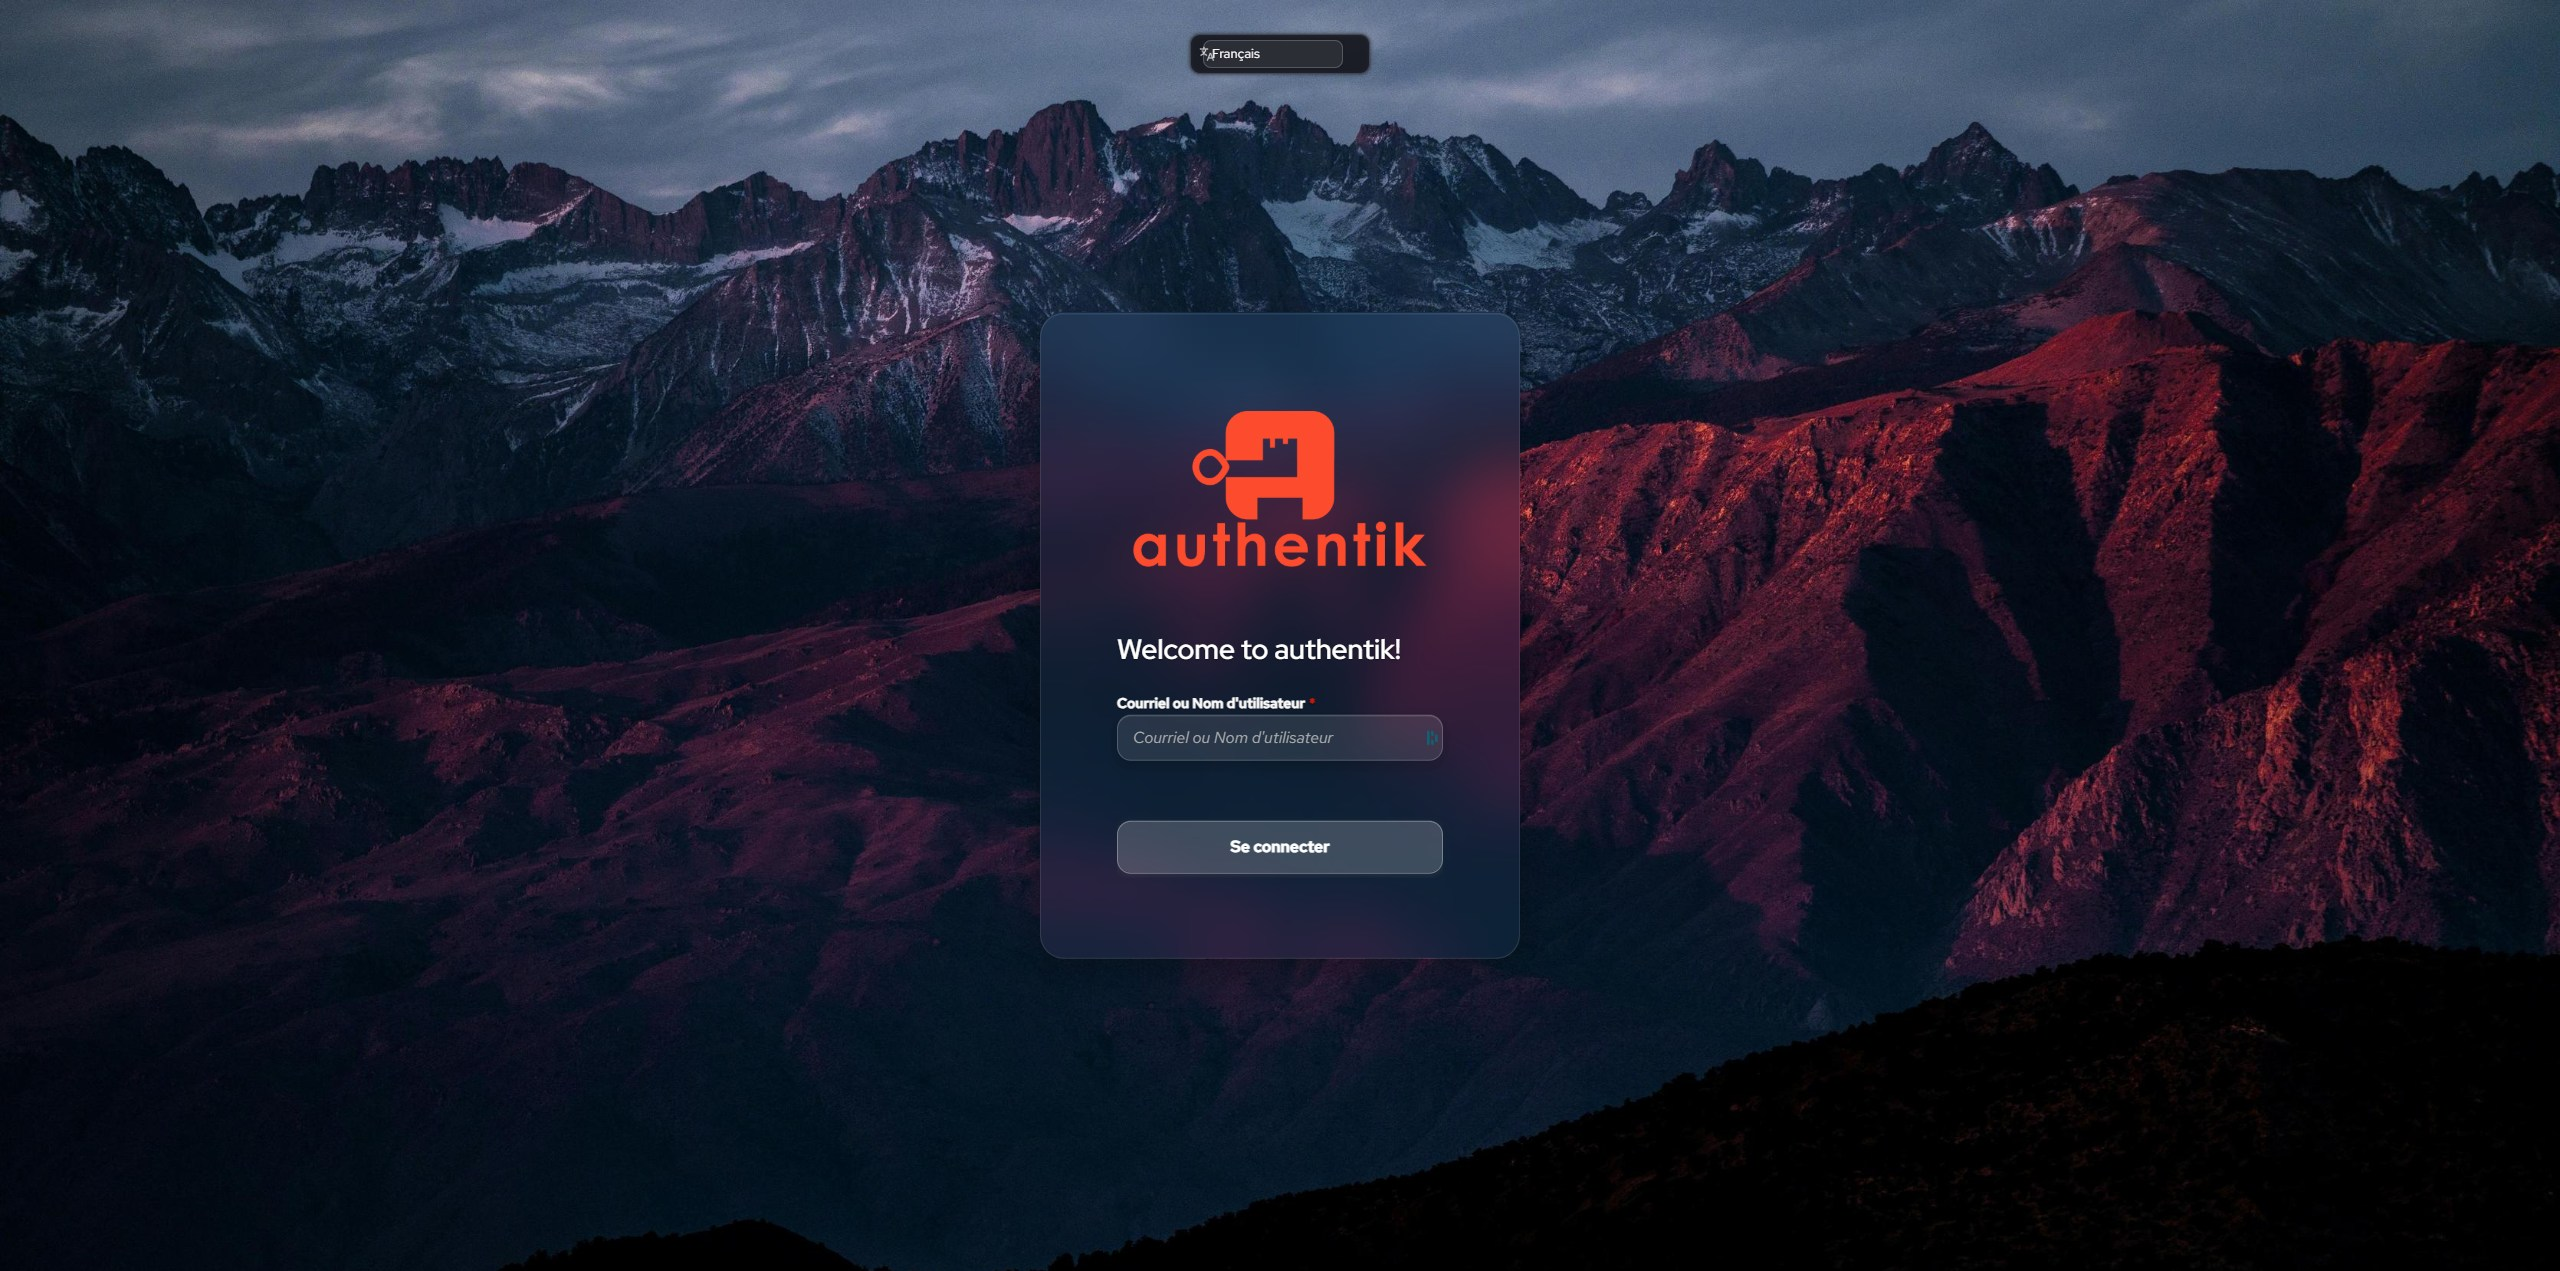
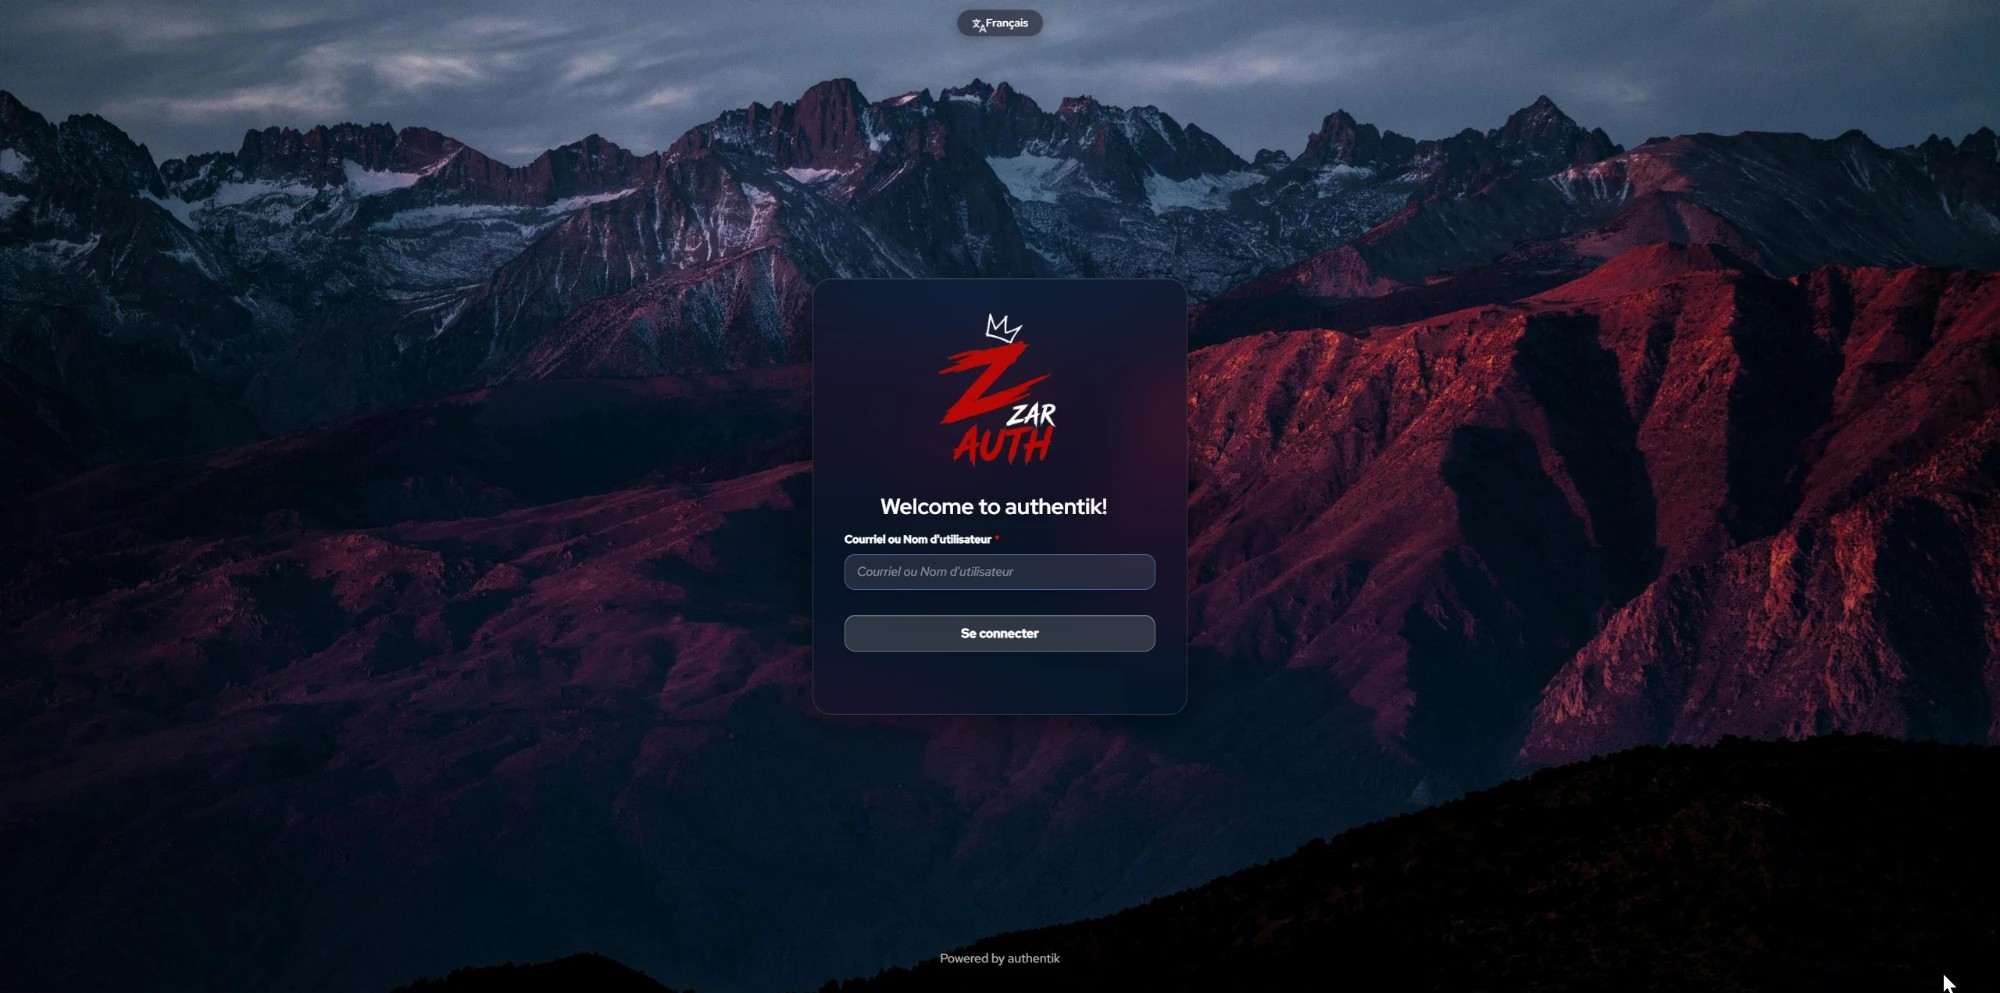
fix: V4.0.1 — fixes after testing on Authentik 2026.8.4
- Hide "Powered by authentik" again: Authentik escapes < > & in the
  document copy of the Custom CSS, so the ">" combinator never matched
  the light-DOM ak-brand-links. All ">" combinators removed.
- "Not you?" link white on nested MFA stages (WebAuthn, code, Duo).
- No horizontal scroll on the dashboard on phones (compact admin pill).
- README: new desktop screenshots, tested-on 2026.8.4, contributor note.

diff --git a/theme.css b/theme.css
@@ -1,8 +1,8 @@
-/* ===== AUTHENTIK GLASSMORPHISM THEME - V4.0 (Authentik 2026.8.x) ===== */
+/* ===== AUTHENTIK GLASSMORPHISM THEME - V4.0.1 (Authentik 2026.8.x) ===== */
 
 /*
    Glassmorphism theme for Authentik.
-   Tested against the Authentik 2026.8.4 frontend sources.
+   Tested on Authentik 2026.8.4.
    Install: Admin -> System -> Brands -> (your brand) -> Custom CSS.
 
    HOW AUTHENTIK APPLIES THIS FILE (2026.x)
@@ -16,6 +16,10 @@
    This V4 relies on that and NEVER fights Authentik's native CSS grid any more:
    it only re-tunes its CSS variables and paints the glass on top. This is what
    makes the layout behave on desktop, tablet and mobile.
+
+   CAUTION: in the DOCUMENT copy Authentik escapes the characters < > and &,
+   so never use the child combinator in rules that target light-DOM elements
+   (ak-brand-links, body, html, ::part()): they silently stop matching.
 
    Login page DOM (2026.8):
      body > ak-drawer > ak-flow-executor #shadow
@@ -427,7 +431,8 @@ ak-interface-user {
 
 /* Footer links: simple centred, wrapping row (the native 4-column grid
    squeezes a single link onto several lines on phones) */
-:host(ak-brand-links) [part="list"] {
+ak-brand-links [part="list"],
+[name="flow-links"] .pf-c-list {
     display: flex !important;
     flex-wrap: wrap !important;
     justify-content: center !important;
@@ -435,21 +440,25 @@ ak-interface-user {
     max-width: 100% !important;
 }
 
-:host(ak-brand-links) [part="list-item"] {
+ak-brand-links [part="list-item"],
+[name="flow-links"] .pf-c-list li {
     flex: 0 1 auto !important;
     max-width: 100% !important;
 }
 
 /* Hide ONLY "Powered by authentik" (always the last, text-only item).
-   Your own footer links (Brand settings) stay visible. */
-:host(ak-brand-links) [part="list-item"][data-kind="text"][data-track-name="end"],
-[name="flow-links"] .pf-c-list > li:last-child:not(:has(a)) {
+   Your own footer links (Brand settings) stay visible.
+   NB: <ak-brand-links> renders in the light DOM, so this rule is matched by
+   the DOCUMENT copy of the Custom CSS. Authentik escapes < > & in that copy:
+   never use the ">" combinator in document-level rules. */
+ak-brand-links [part="list-item"][data-kind="text"]:last-child,
+[name="flow-links"] li:last-child:not(:has(a)) {
     display: none !important;
 }
 
 /* --- Language picker: glass pill, centred on top, every viewport --- */
-.pf-c-login > [part="locale-select"],
-.pf-c-login > ak-locale-select {
+.pf-c-login [part="locale-select"],
+.pf-c-login ak-locale-select {
     --ak-c-locale-select--Opacity: 1 !important;
     --ak-c-flow-executor__locale-select--Color: var(--glass-text) !important;
     --ak-c-locale-select--label--Color: var(--glass-text) !important;
@@ -566,7 +575,7 @@ ak-interface-user {
         justify-content: center !important;
     }
 
-    .pf-c-login[data-layout^="sidebar"] > [part="locale-select"] {
+    .pf-c-login[data-layout^="sidebar"] [part="locale-select"] {
         grid-area: header !important;
     }
 }
@@ -657,7 +666,11 @@ ak-flow-card .pf-m-error,
 }
 
 ak-flow-card a:not(.pf-c-button),
-:host(ak-form-static) a {
+:host(ak-form-static) a,
+[slot="link"] a,
+:host(ak-stage-authenticator-validate-webauthn) a:not(.pf-c-button),
+:host(ak-stage-authenticator-validate-code) a:not(.pf-c-button),
+:host(ak-stage-authenticator-validate-duo) a:not(.pf-c-button) {
     color: var(--glass-text) !important;
     text-decoration: none !important;
     opacity: 0.85;
@@ -665,7 +678,8 @@ ak-flow-card a:not(.pf-c-button),
 }
 
 ak-flow-card a:not(.pf-c-button):hover,
-:host(ak-form-static) a:hover {
+:host(ak-form-static) a:hover,
+[slot="link"] a:hover {
     opacity: 1;
     text-decoration: underline !important;
     text-shadow: 0 0 8px rgba(255, 255, 255, 0.5) !important;
@@ -1621,11 +1635,11 @@ ak-library-impl::part(card-header-actions-button):hover {
     box-shadow: none !important;
 }
 
-:host(ak-user-session-list) .pf-c-table tbody > tr > *,
-:host(ak-user-settings-mfa) .pf-c-table tbody > tr > *,
-:host(ak-user-consent-list) .pf-c-table tbody > tr > *,
-:host(ak-user-reputation-list) .pf-c-table tbody > tr > *,
-:host(ak-user-token-list) .pf-c-table tbody > tr > * {
+:host(ak-user-session-list) .pf-c-table tbody td,
+:host(ak-user-settings-mfa) .pf-c-table tbody td,
+:host(ak-user-consent-list) .pf-c-table tbody td,
+:host(ak-user-reputation-list) .pf-c-table tbody td,
+:host(ak-user-token-list) .pf-c-table tbody td {
     border-bottom-color: rgba(255, 255, 255, 0.1) !important;
 }
 
@@ -1787,6 +1801,23 @@ ak-interface-admin::part(brand) {
 
     :host(ak-user-settings) .pf-c-card {
         margin: 8px 0 !important;
+    }
+
+    /* Compact "Admin interface" pill: the wide desktop pill pushed the user
+       menu off-screen on phones (horizontal scroll). */
+    :host(ak-interface-user) a[href*="/if/admin/"] {
+        padding: 6px 12px !important;
+        font-size: 12px !important;
+        line-height: 1.2 !important;
+        white-space: nowrap !important;
+    }
+}
+
+@media (max-width: 400px) {
+    :host(ak-interface-user) a[href*="/if/admin/"] {
+        max-width: 110px !important;
+        overflow: hidden !important;
+        text-overflow: ellipsis !important;
     }
 }
 

diff --git a/README.md b/README.md
@@ -2,13 +2,13 @@
 
 A custom **glassmorphism** login theme for [Authentik](https://goauthentik.io/).
 
-> ✅ **V4.0** — Rebuilt for **Authentik 2026.8.x** (validated against the 2026.8.4 frontend sources), desktop + tablet + mobile
+> ✅ **V4.0.1** — Rebuilt for **Authentik 2026.8.x**, tested on **Authentik 2026.8.4** — desktop, tablet and mobile
 >
 > Forked from the original [VULGA01/Authentik-Login-theme-Glassmorphism](https://github.com/VULGA01/Authentik-Login-theme-Glassmorphism) (tested on 2025.10.3) and updated for the new Shadow DOM architecture introduced in Authentik 2026.x.
 
 [![License: MIT](https://img.shields.io/badge/License-MIT-blue.svg)](LICENSE)
 ![Authentik version](https://img.shields.io/badge/Authentik-2026.8.4-orange)
-![Version](https://img.shields.io/badge/version-V4.0-blue)
+![Version](https://img.shields.io/badge/version-V4.0.1-blue)
 
 ## 📸 Previews
 
@@ -27,6 +27,8 @@ A custom **glassmorphism** login theme for [Authentik](https://goauthentik.io/).
 ![Dashboard Desktop](./screenshots/dashboard-desktop.jpg)
 
 ### 📱 Mobile
+
+> Mobile captures below were taken with V3.1.x; the V4 layout keeps the same look (glass card with side margins, full background).
 
 <table>
   <tr>
@@ -55,17 +57,18 @@ A custom **glassmorphism** login theme for [Authentik](https://goauthentik.io/).
 
 | Authentik version | Status | Notes |
 |---|---|---|
-| **2026.8.x** | ✅ Supported | This fork — V4.0 |
+| **2026.8.4** | ✅ Fully tested | This fork — V4.0.1 |
+| 2026.8.x (other patch) | 🟢 Supported | Same frontend |
 | 2026.5.x | 🟢 Likely OK | Same flow executor grid |
 | 2026.2.x | 🟡 Use V3.1.3 (tag/commit `98e26aa`) | Older executor layout |
 | 2025.10.3 | 🟡 Use V3.0 from [original repo](https://github.com/VULGA01/Authentik-Login-theme-Glassmorphism) | Older DOM structure |
 | ≤ 2025.x earlier | 🟡 Use V3.0 from [original repo](https://github.com/VULGA01/Authentik-Login-theme-Glassmorphism) | Older DOM structure |
 
-## ✨ Features (V4.0)
+## ✨ Features (V4.0.1)
 
 - **Modern glassmorphism design** — `backdrop-filter` blur, semi-transparent glass cards, elegant shadows.
 - **Full responsiveness** — Optimized for desktop, tablet, and mobile (including iOS quirks).
-- **Authentik 2026.x Shadow DOM support** — Targets new components via CSS Shadow Parts:
+- **Authentik 2026.x Shadow DOM support** — Authentik injects the Custom CSS into every web-component shadow root; the theme styles the 2026.x components from the inside (plus a few `::part()` routes):
   - `<ak-flow-card>` — new wrapper around every login stage
   - `<ak-form-static>` — avatar + username block
   - `<ak-flow-input-password>` — new password wrapper
@@ -82,6 +85,7 @@ A custom **glassmorphism** login theme for [Authentik](https://goauthentik.io/).
 - **User settings + dashboard theming** — Tabs, tables, app cards consistent glass styling.
 - **Themed app card actions** — The `⋮` dropdown menu on each app is glass-styled.
 - **Static error pages** — "Client ID Error" and other static error pages also themed.
+- **User menu & header** — glass top bar, compact admin pill on phones, "Sign out" dropdown always above the page content.
 - **Admin panel safe** — no global button/input rules any more; the admin interface is untouched.
 - **Easy customization** — CSS variables at the top of `theme.css` (background, card width/opacity/radius, logo size, colours).
 
@@ -126,17 +130,26 @@ due to cached CSS. 👉 **Purge your Cloudflare cache** to ensure changes take e
 - The `<datalist>` autocomplete dropdown of the app search bar is browser-rendered.
 - `backdrop-filter` is unavailable on some old browsers / Linux GPU setups: the card then
   falls back to a more opaque tint automatically.
+- On very narrow phones (≈320px) the user-interface header can still overflow by a few
+  pixels; Authentik's own header already overflows there without the theme.
+
+### 🛠 Note for contributors
+
+Authentik escapes `<`, `>` and `&` in the copy of the Custom CSS inserted in the page
+document (the shadow-root copies are untouched). **Never use the `>` child combinator**
+(or `&` nesting) in rules that must match light-DOM elements such as `ak-brand-links`,
+`body`, `html` or `::part()` selectors: they silently stop matching.
 
 ## 📜 Changelog
 
 See [CHANGELOG.md](./CHANGELOG.md) for the full version history.
 
-### Summary of V4.0 vs V3.1.x
+### Summary of V4.0.x vs V3.1.x
 
 - 🔴 **Login layout rebuilt** for 2026.8: no more `position: fixed` card / `overflow: hidden` on `html, body` (card was pushed off-centre and long forms could not scroll on mobile).
 - 🟢 Merged upstream fixes from VULGA01 (2026.2 / 2026.5: logo size, background-wrapper overlay, glass locale picker) and community forks.
 - 🟢 Social buttons re-targeted to the 2026.x `<fieldset name="login-sources">`.
-- 🟢 ~3200 → 1853 lines, every selector checked against the 2026.8.4 sources.
+- 🟢 ~3200 → 1895 lines, every selector checked against the 2026.8.4 sources.
 
 ### Summary of V3.1.x vs V3.0
 

diff --git a/CHANGELOG.md b/CHANGELOG.md
@@ -4,6 +4,28 @@ All notable changes to this theme are documented in this file.
 
 Format: [Semantic Versioning](https://semver.org/) (MAJOR.MINOR.PATCH).
 
+## [V4.0.1] — 2026-10-20 (fixes after testing on Authentik 2026.8.4)
+
+### Fixed
+
+- **"Powered by authentik" still visible**: Authentik escapes `<`, `>` and `&` in the
+  document copy of the Custom CSS (`_json_script_escapes`), and `<ak-brand-links>`
+  renders in the light DOM, so the selector using the `>` combinator never matched.
+  All `>` combinators removed from the theme; footer rules rewritten for the light DOM.
+- **"Not you?" link blue on the WebAuthn / code / Duo MFA screens**: the link is
+  slotted from nested authenticator stages that don't use `ak-flow-card`; now white.
+- **Horizontal scroll on the user dashboard on phones**: the "Admin interface" pill
+  pushed the user menu off-screen; compact pill below 768px, ellipsis below 400px.
+- User menu ("Sign out") kept above the library search bar (header stacking context).
+
+### Changed
+
+- 10px spacing between field labels and inputs on login / MFA / prompt stages.
+- README: new desktop screenshots (identification, password, WebAuthn, dashboard),
+  compatibility table marked as tested on 2026.8.4, contributor note on escaping.
+
+---
+
 ## [V4.0] — 2026-10-20 (Authentik 2026.8.x, responsive rebuild)
 
 ### Context
